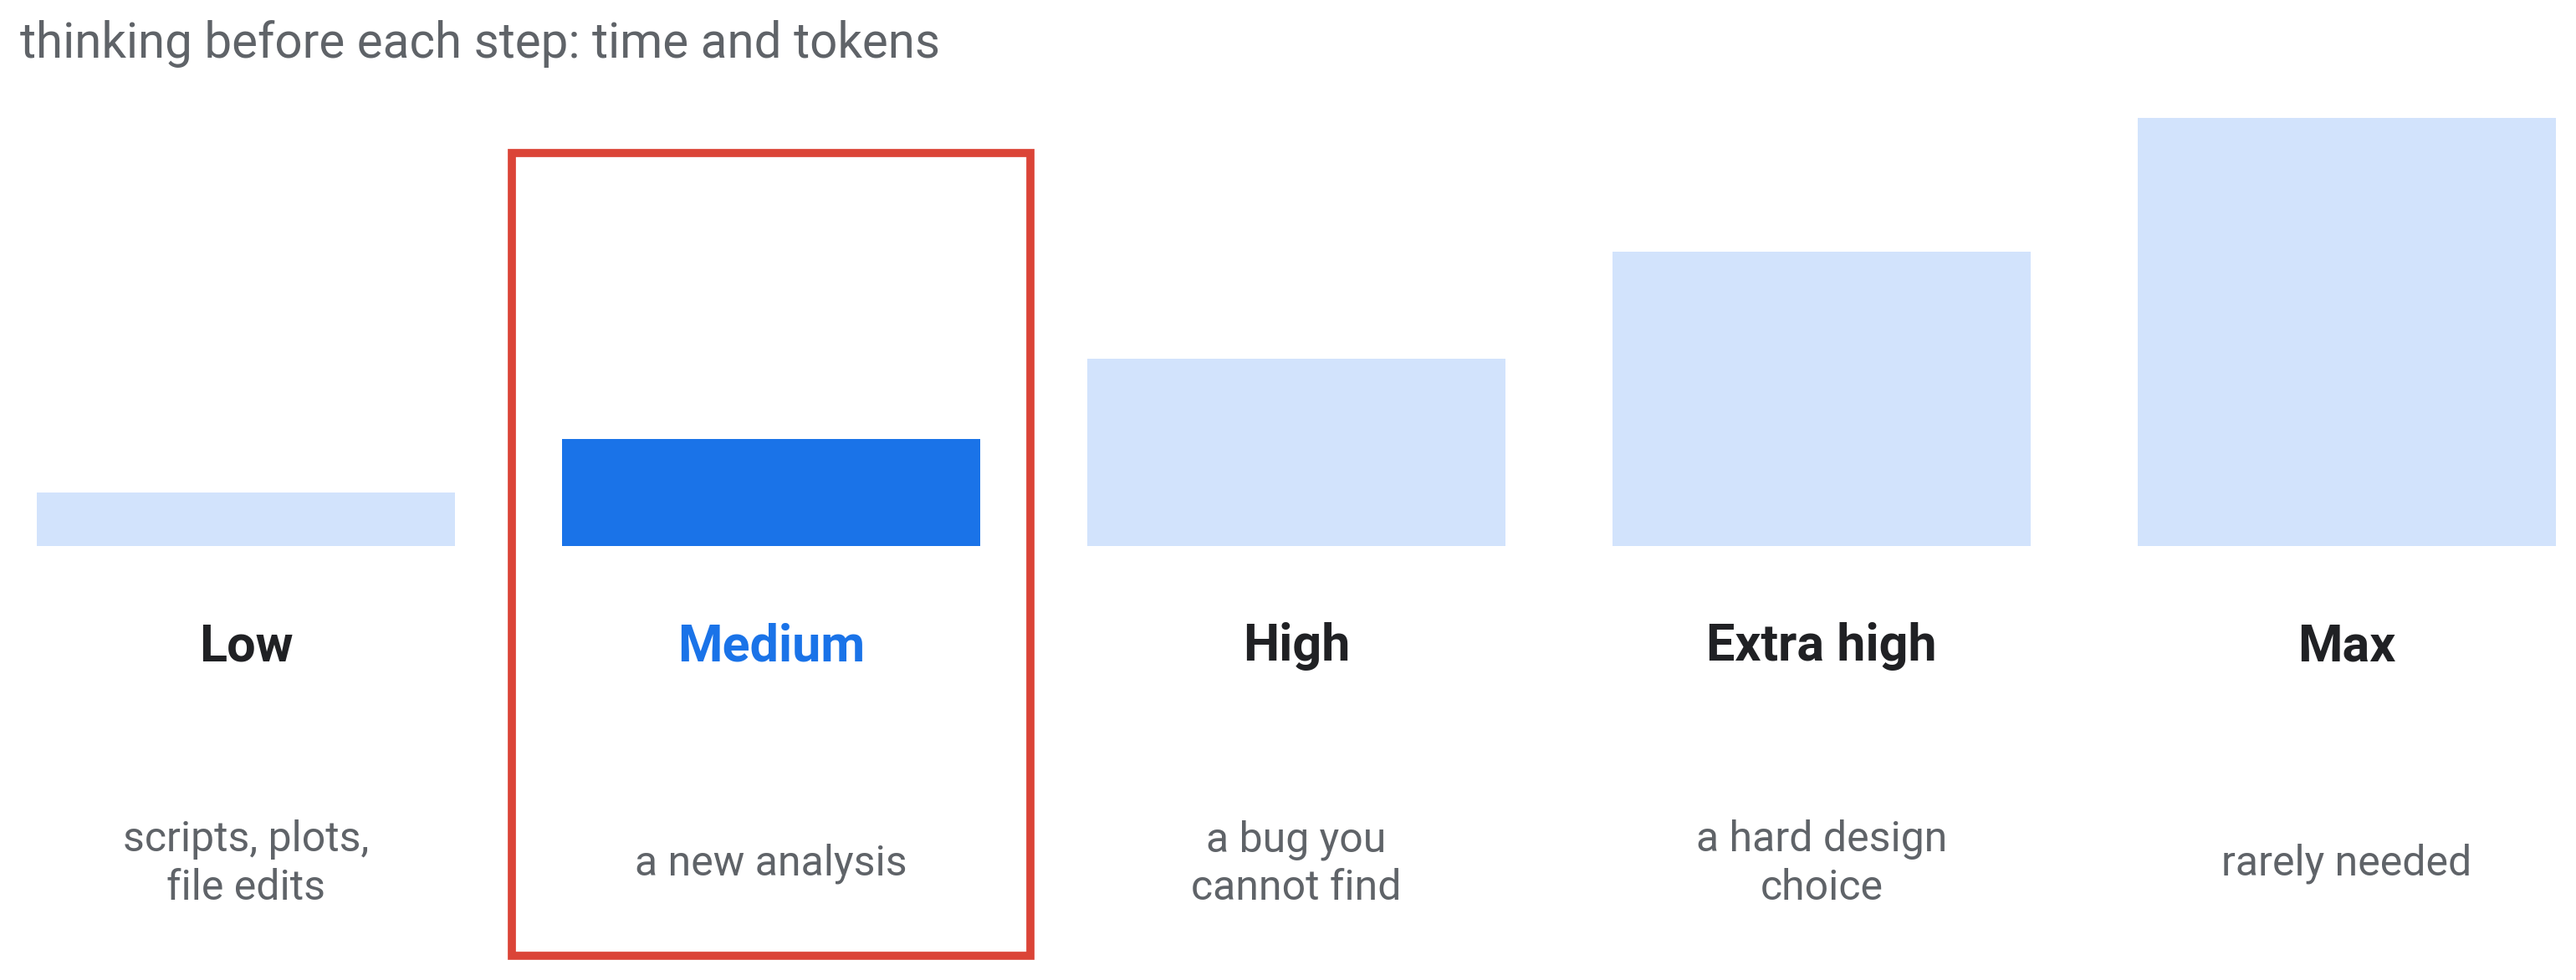
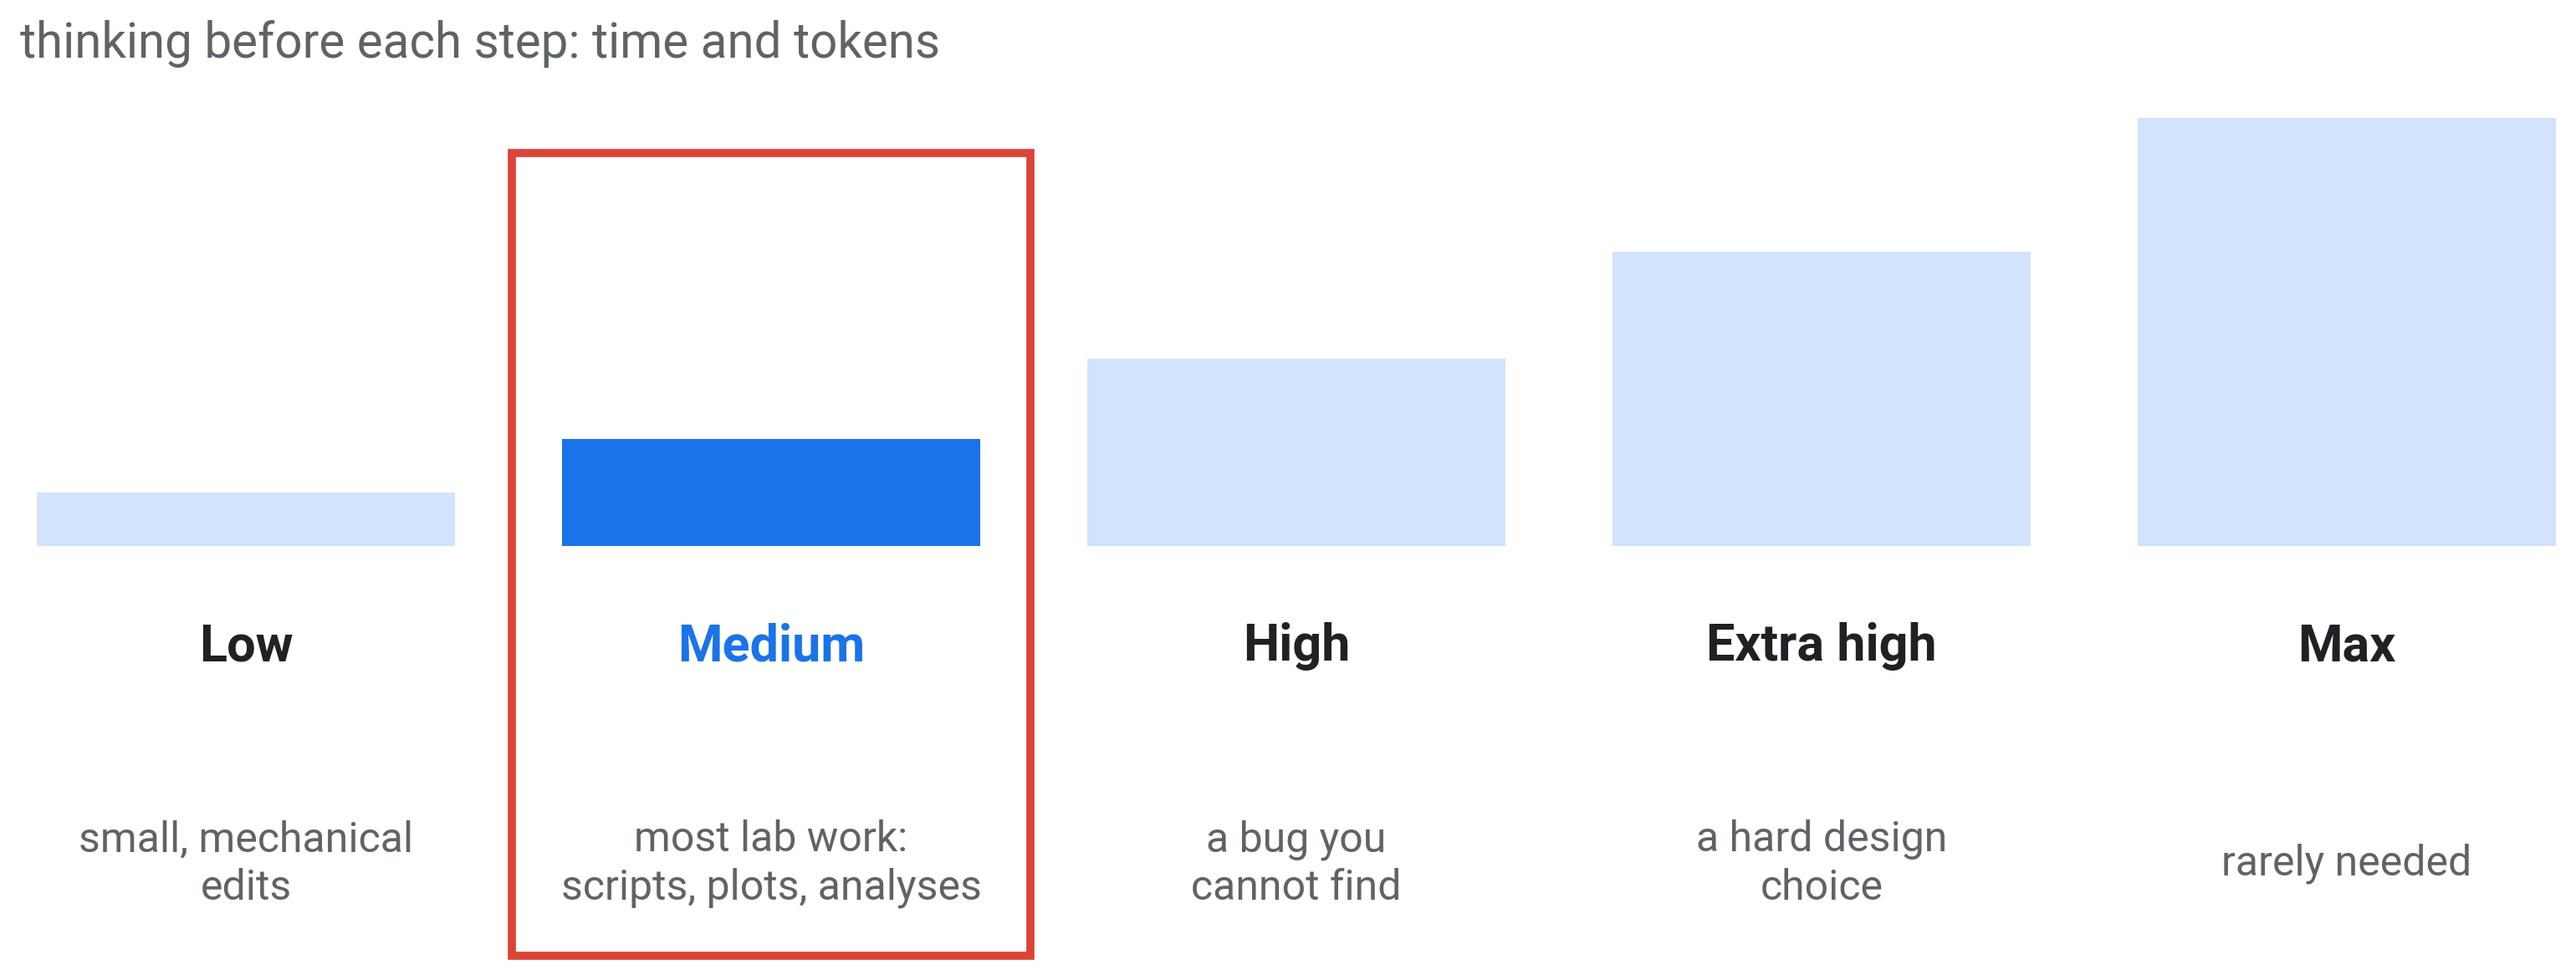
Lab tutorial deck: effort captions name what medium is for

Changed region(s): [[0.2182, 0.8294, 0.374, 0.9215], [0.0312, 0.8294, 0.1558, 0.9215]]

diff --git a/slides/figures/figs_agents.py b/slides/figures/figs_agents.py
@@ -225,7 +225,7 @@ def effort():
         if i == 1:                                       # where to be most of the time
             ax.add_patch(Rectangle((x - 3, 1.5), 31, 48, fill=False, ec=BASE["U"], lw=3.5))
     label(ax, 2, 56, "thinking before each step: time and tokens", fs=21, color=MUTED, ha="left")
-    ex = ["scripts, plots,\nfile edits", "a new analysis", "a bug you\ncannot find", "a hard design\nchoice", "rarely needed"]
+    ex = ["small, mechanical\nedits", "most lab work:\nscripts, plots, analyses", "a bug you\ncannot find", "a hard design\nchoice", "rarely needed"]
     for i, t in enumerate(ex):
         label(ax, 3 + i * 31.4 + 12.5, 7, t, fs=18, color=MUTED)
     save(fig, "ag_effort")
